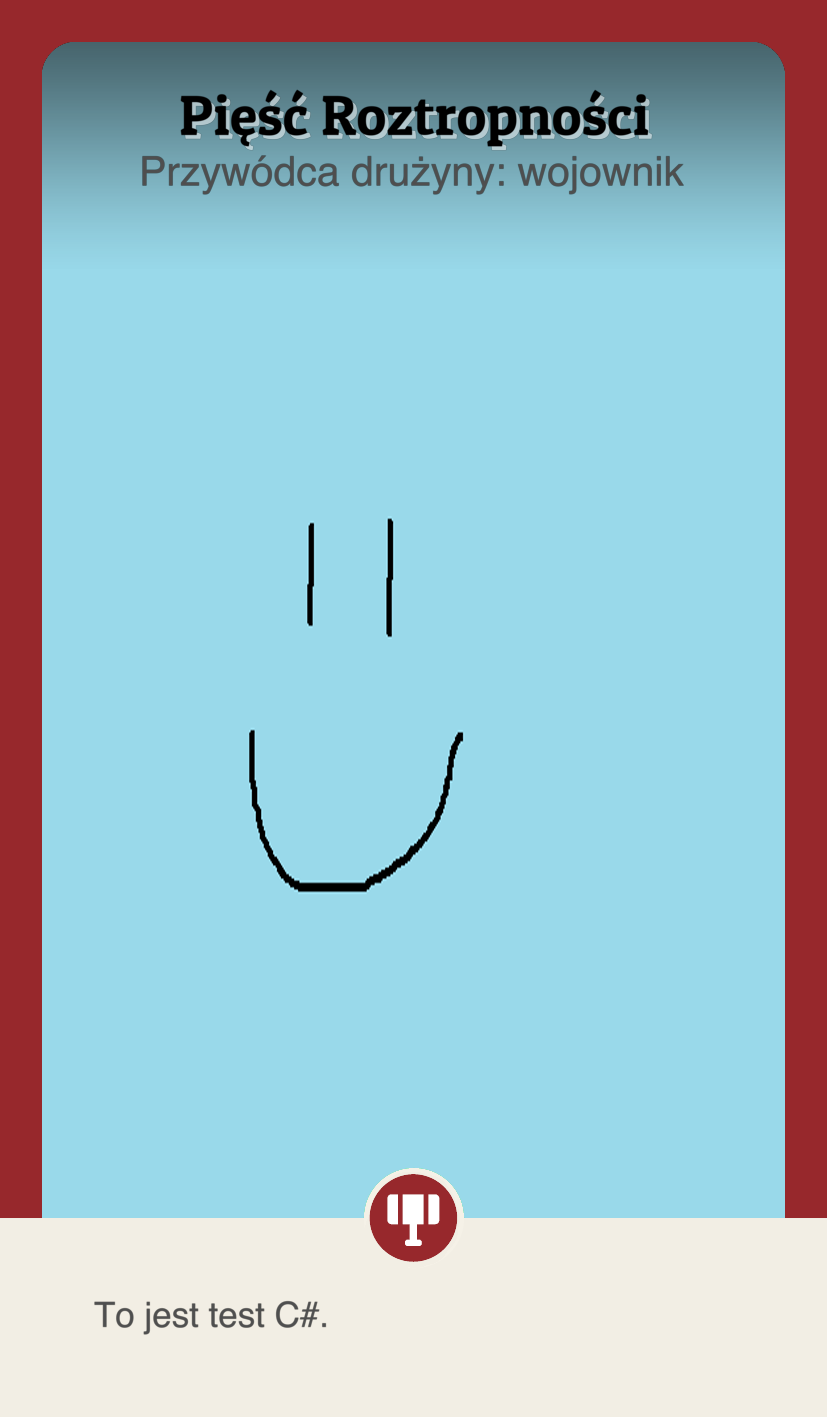
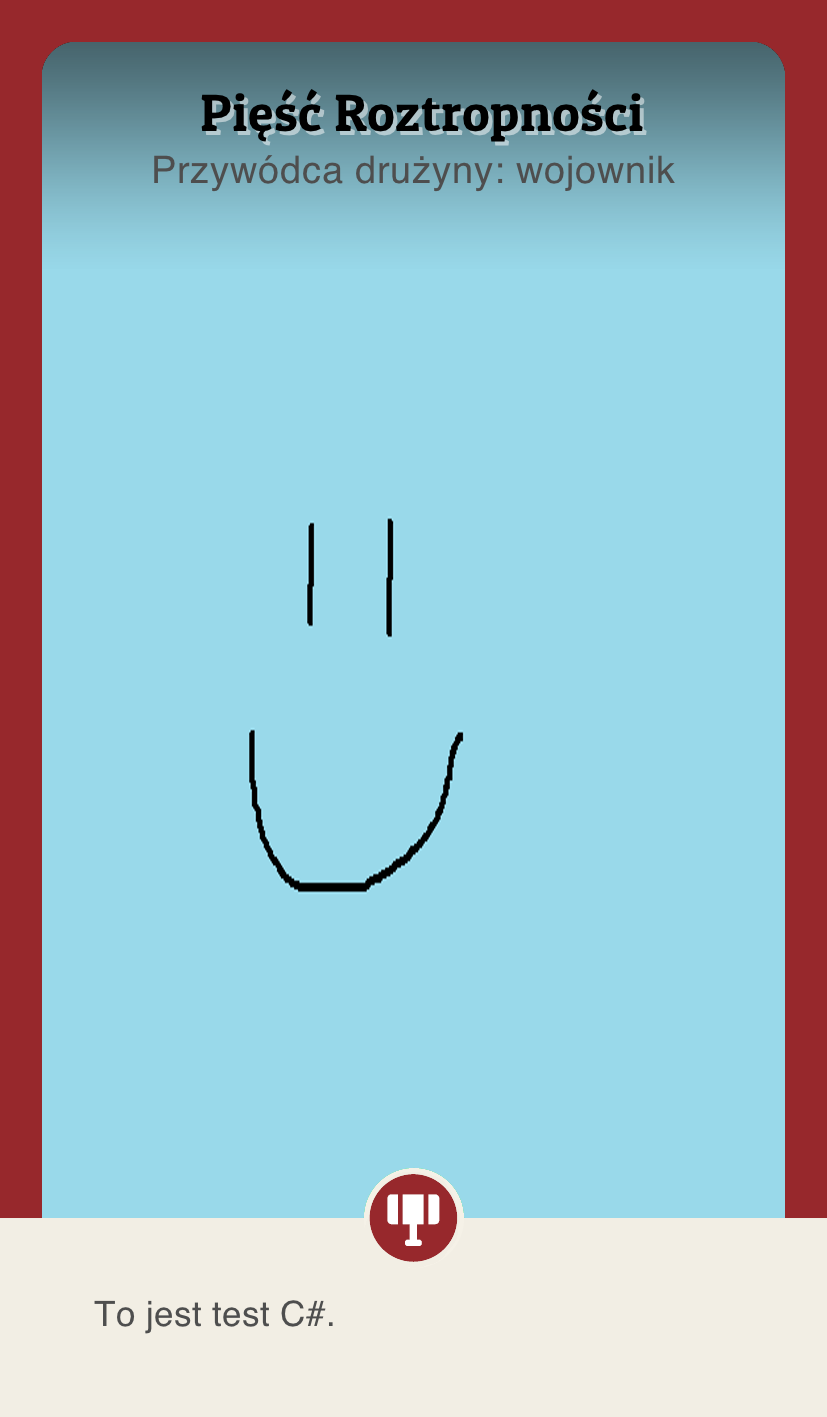
Cleaning up, Performence improvement

Changed region(s): [[0.1511, 0.0621, 0.8162, 0.1553], [0.1511, 0.9005, 0.393, 0.9626]]

diff --git a/Program.cs b/Program.cs
@@ -15,71 +15,82 @@ class Program
         Color WOJ = new Color(151, 40, 44, 255);
         Color ZLO = new Color(0, 78, 125, 255);
 
+        const int NAME_FONT_SPACING = 1;
+        const int TITLE_FONT_SPACING = 1;
+        const int DESC_FONT_SPACING = 1;
+
         Color DESC = new Color(78, 78, 78, 255);
 
         const int CARD_WIDTH = 827;
         const int CARD_HEIGHT = 1417;
 
-        const int NAME_SIZE = 69; // 69 test
-        const int TITLE_SIZE = 41; // 41
+        const int NAME_SIZE = 64; // 69
+        const int TITLE_SIZE = 38; // 41
         const int DESC_SIZE = 35; // 35
 
-        Font nameFont = Raylib.LoadFontEx("name_font.ttf", 1000, null, 1382);
-        Font descFont = Raylib.LoadFontEx("desc_font.ttf", 1000, null, 1382);
-
-        Color desiredColor = WOJ;
-        int desiredClass = 5;
-
-        string leaderName = "Pięść Roztropności";
-        string leaderTitle;
-        string leaderDescription = "To jest test C#.";
-
-        switch (desiredClass)
-        {
-            case 1:
-                leaderTitle = "Przywódca drużyny: łowca";
-                break;
-            case 2:
-                leaderTitle = "Przywódca drużyny: mag";
-                break;
-            case 3:
-                leaderTitle = "Przywódca drużyny: bard";
-                break;
-            case 4:
-                leaderTitle = "Przywódca drużyny: strażnik";
-                break;
-            case 5:
-                leaderTitle = "Przywódca drużyny: wojownik";
-                break;
-            case 6:
-                leaderTitle = "Przywódca drużyny: złodziej";
-                break;
-            default:
-                leaderTitle = "";
-                break;
-        }
-
-        Vector2 leaderNameSize = Raylib.MeasureTextEx(nameFont, leaderName, NAME_SIZE, 1);
-        Vector2 leaderTitleSize = Raylib.MeasureTextEx(descFont, leaderTitle, TITLE_SIZE, 1);
-        Vector2 leaderDescriptionSize = Raylib.MeasureTextEx(descFont, leaderDescription, DESC_SIZE, 1);
+        Font nameFont = Raylib.LoadFontEx("name_font.ttf", NAME_SIZE, null, 1415);
+        Font titleFont = Raylib.LoadFontEx("desc_font.ttf", TITLE_SIZE, null, 1415);
+        Font descFont = Raylib.LoadFontEx("desc_font.ttf", DESC_SIZE, null, 1415);
 
         Image frame = Raylib.LoadImage("template/frame.png");
         Image bottom = Raylib.LoadImage("template/bottom.png");
         Image gradient = Raylib.LoadImage("template/gradient.png");
         Image card = Raylib.LoadImage("template/background.png");
         Image leader = Raylib.LoadImage("leader_pic.png");
+        Image classSymbol;
 
-        Rectangle imageRec = new Rectangle(0, 0, 827, 1417);
+        Color desiredColor;
+        int desiredClass = 5;
+        string leaderTitle;
 
-        Image[] classesSymbol =
+        string leaderName = "Pięść Roztropności";
+        string leaderDescription = "To jest test C#.";
+
+        switch (desiredClass)
         {
-            Raylib.LoadImage("classes/lowca.png"),
-            Raylib.LoadImage("classes/mag.png"),
-            Raylib.LoadImage("classes/najebus.png"),
-            Raylib.LoadImage("classes/straznik.png"),
-            Raylib.LoadImage("classes/wojownik.png"),
-            Raylib.LoadImage("classes/zlodziej.png")
-        };
+            case 1:
+                leaderTitle = "Przywódca drużyny: łowca";
+                desiredColor = LOW;
+                classSymbol = Raylib.LoadImage("classes/lowca.png");
+                break;
+            case 2:
+                leaderTitle = "Przywódca drużyny: mag";
+                desiredColor = MAG;
+                classSymbol = Raylib.LoadImage("classes/mag.png");
+                break;
+            case 3:
+                leaderTitle = "Przywódca drużyny: bard";
+                classSymbol = Raylib.LoadImage("classes/najebus.png");
+                desiredColor = NAJ;
+                break;
+            case 4:
+                leaderTitle = "Przywódca drużyny: strażnik";
+                classSymbol = Raylib.LoadImage("classes/straznik.png");
+                desiredColor = STR;
+                break;
+            case 5:
+                leaderTitle = "Przywódca drużyny: wojownik";
+                classSymbol = Raylib.LoadImage("classes/wojownik.png");
+                desiredColor = WOJ;
+                break;
+            case 6:
+                leaderTitle = "Przywódca drużyny: złodziej";
+                classSymbol = Raylib.LoadImage("classes/zlodziej.png");
+                desiredColor = ZLO;
+                break;
+            default: // when no desired class is given it deafults to thief
+                leaderTitle = "Przywódca drużyny: złodziej";
+                classSymbol = Raylib.LoadImage("classes/zlodziej.png");
+                desiredColor = ZLO;
+                break;
+        }
+
+
+        Vector2 leaderNameSize = Raylib.MeasureTextEx(nameFont, leaderName, NAME_SIZE, NAME_FONT_SPACING);
+        Vector2 leaderTitleSize = Raylib.MeasureTextEx(titleFont, leaderTitle, TITLE_SIZE, TITLE_FONT_SPACING);
+        Vector2 leaderDescriptionSize = Raylib.MeasureTextEx(descFont, leaderDescription, DESC_SIZE, DESC_FONT_SPACING);
+
+        Rectangle imageRec = new(0, 0, 827, 1417);
 
         Raylib.ImageColorTint(ref frame, desiredColor);
 
@@ -89,14 +100,14 @@ class Program
         Raylib.ImageDraw(ref card, gradient, imageRec, imageRec, Color.WHITE);
         Raylib.ImageDraw(ref card, frame, imageRec, imageRec, Color.WHITE);
         Raylib.ImageDraw(ref card, bottom, imageRec, imageRec, Color.WHITE);
-        Raylib.ImageDraw(ref card, classesSymbol[desiredClass - 1], imageRec, imageRec, Color.WHITE);
+        Raylib.ImageDraw(ref card, classSymbol, imageRec, imageRec, Color.WHITE);
 
-        Raylib.ImageDrawTextEx(ref card, nameFont, leaderName, new Vector2((CARD_WIDTH / 2) - ((leaderNameSize.X * 0.96f) / 2) + 4, 84.0f), NAME_SIZE, 1, new Color(255, 255, 255, 127));
-        Raylib.ImageDrawTextEx(ref card, nameFont, leaderName, new Vector2((CARD_WIDTH / 2) - ((leaderNameSize.X * 0.96f) / 2), 80.0f), NAME_SIZE, 1, Color.BLACK);
+        Raylib.ImageDrawTextEx(ref card, nameFont, leaderName, new Vector2((CARD_WIDTH / 2) - ((leaderNameSize.X * 0.96f) / 2) + 4, 84.0f), NAME_SIZE, NAME_FONT_SPACING, new Color(255, 255, 255, 127));
+        Raylib.ImageDrawTextEx(ref card, nameFont, leaderName, new Vector2((CARD_WIDTH / 2) - ((leaderNameSize.X * 0.96f) / 2), 80.0f), NAME_SIZE, NAME_FONT_SPACING, Color.BLACK);
 
-        Raylib.ImageDrawTextEx(ref card, descFont, leaderTitle, new Vector2((CARD_WIDTH / 2) - ((leaderTitleSize.X * 0.96f) / 2), 154.0f), TITLE_SIZE, 1, DESC);
+        Raylib.ImageDrawTextEx(ref card, titleFont, leaderTitle, new Vector2((CARD_WIDTH / 2) - (leaderTitleSize.X / 2), 154.0f), TITLE_SIZE, TITLE_FONT_SPACING, DESC);
 
-        Raylib.ImageDrawTextEx(ref card, descFont, leaderDescription, new Vector2(94.0f, (CARD_HEIGHT - (199 / 2) - (leaderDescriptionSize.Y / 2))), DESC_SIZE, 1, DESC);
+        Raylib.ImageDrawTextEx(ref card, descFont, leaderDescription, new Vector2(94.0f, (CARD_HEIGHT - (199 / 2) - (leaderDescriptionSize.Y / 2))), DESC_SIZE, DESC_FONT_SPACING, DESC);
 
         Raylib.ExportImage(card, "test.png");
 
